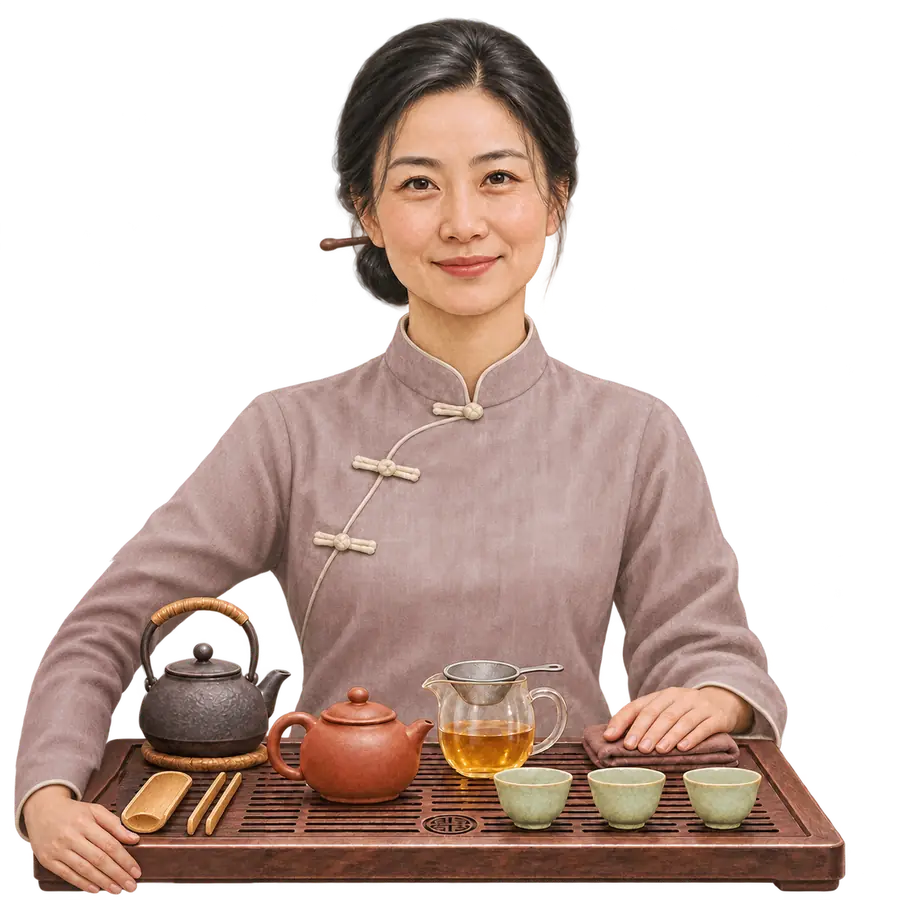
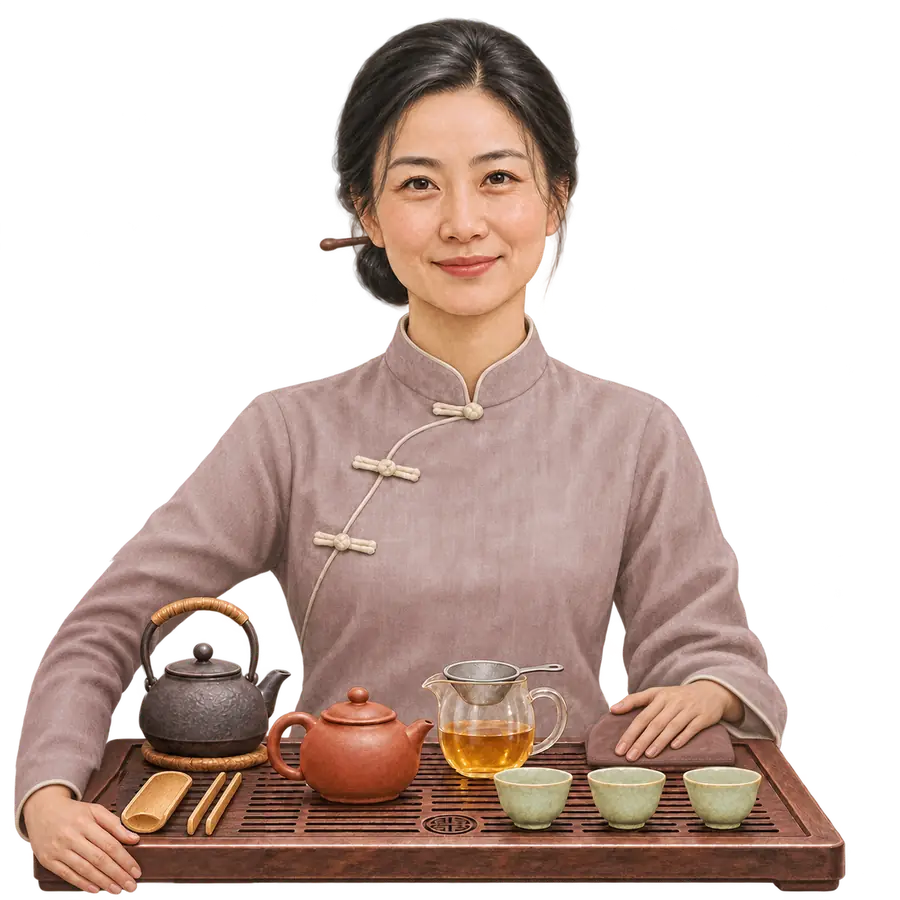
Draw Master Su in every pose and give her a softer voice
All 36 remaining frames from the animator, locked to her idle so still
pixels match, plus her four test frames with the corrected left hand.
She now uses the same gestures, tea round and cup overlays as Master Lin.
Her speech is gentler and more feminine in Chinese and English: greeting,
persona voice notes, refusal and fallback lines, and a few extra nod and
think cues for how she talks.

Claude-Session: https://claude.ai/code/session_01FvpSvFpFZJn68NFhobHFM3

Changed region(s): [[0.6533, 0.7467, 0.8711, 0.8711]]

diff --git a/index.html b/index.html
@@ -3729,7 +3729,7 @@ initReviews();
   const quiet=()=>still()||document.hidden||$("teahouse").hidden;
   /* Two tea masters keep this table, Master Lin (林师傅) and Master Su (苏师傅), and either may be the one on duty:
      chosen at random for each visit and kept for the rest of it (?host=lin or ?host=su previews one). Master Su is
-     only partly drawn so far: idle, the two low pours and the offered cup. For any other gesture she stays at rest. */
+     drawn in every pose he is, on the same tray, so her frames simply take the place of his. */
   const HOST=(()=>{let h=""; try{h=(new URLSearchParams(location.search).get("host")||"").toLowerCase()}catch(e){}
     if(h==="lin"||h==="su") return h;
     try{h=sessionStorage.getItem("cha.host")||""}catch(e){}
@@ -3737,9 +3737,7 @@ initReviews();
     try{sessionStorage.setItem("cha.host",h)}catch(e){}
     return h;})(), SU=HOST==="su";
   const WHO=SU?{en:"Master Su",zh:"苏师傅",zht:"蘇師傅",img:"img/master-su/idle.webp"}:{en:"Master Lin",zh:"林师傅",zht:"林師傅",img:"img/master-lin/idle.webp"};
-  if(SU){const DRAWN=new Set(["","pour-low","pour-gaiwan","offer"]);
-    man.querySelectorAll("img[data-pose]").forEach(i=>{const k=i.dataset.pose;
-      if(!DRAWN.has(k)){i.remove(); return}
+  if(SU){man.querySelectorAll("img[data-pose]").forEach(i=>{const k=i.dataset.pose;
       i.src="img/master-su/"+(k||"idle")+".webp";
       if(!k) i.alt="Master Su at a complete gongfu tea tray: Yixing teapot, fairness pitcher and strainer, three celadon cups, kettle, tea tools and cloth";});
     $("thGaiwan").src="img/master-su/gaiwan.webp";
@@ -3761,7 +3759,6 @@ initReviews();
   const ALIAS={"reach-pot":"reach-gaiwan","smell-lid":"smell-gaiwan-lid","pour-low":"pour-gaiwan","fill-pot":"brew-gaiwan"},
     PATCHED=new Set(["","blink","listen","talk-a","talk-b","talk-c","laugh","welcome","thinking","nod","point","smell","reach-cup","sip"]),
     patch=$("thGaiwan"), cupEls=[0,1,2].map(i=>$("thCup"+i));
-  if(SU) PATCHED.add("offer");
   /* The three cups are drawn empty. Once he has served, a small patch of tea is laid in each cup that still has
      tea in it (tea.cups: bit 0 the left cup, bit 1 the middle, bit 2 the right one, the guest's). CUPS says which
      cups a frame leaves on the tray untouched: a cup in his hand, or one the frame draws being filled, gets none. */
@@ -3899,8 +3896,8 @@ initReviews();
     ["offer",/\b(taste (this|it|that|some)|have a taste|try (this|it|some|a cup|a sip)|(take|have) a sip|here you (go|are)|have some|enjoy (it|this|your)|this cup|your cup|drink (up|it|this)|while it('s| is) (still )?(hot|warm)|careful,? it('s| is) hot)\b|尝尝|尝一|你尝|请尝|喝一口|喝口|请(喝|用|品|茶)|你试试|试试看|品一品|这杯|趁热|慢用|慢慢喝|小心烫/gi],
     ["smell",/\b(smell(s|ed|ing)?|aromas?|fragran(t|ce)|scents?|sniff|(lift|under) the lid)\b|闻|香气|香味|茶香|盖香/gi],
     ["laugh",/\b(ha(ha)+|he(he)+|lol|laugh(s|ed|ing)?|funny|joking|teasing)\b|\bha!|哈哈|呵呵|嘿嘿|好笑|开玩笑|[😄😂😆]/giu],
-    ["nod",/(?:^|[.!?]\s+)(yes|yeah|exactly|indeed|of course|certainly|absolutely|precisely|correct|that's (right|true)|quite right|you('re| are) right|I agree|well said|very good|ah,? yes)\b|(?:^|[。！？])\s*(对|是的|是啊|没错|当然|正是|说得对|说得好|可不是|好的|好啊)/gi],
-    ["think",/(?:^|[.!?]\s+)(hmm+|well,|let me think|good question|that's a (good|hard|difficult|tricky|interesting) (one|question)|how (shall|should|do|can) I (put|say|explain)|it depends|honestly|to be honest)|(?:^|[。！？])\s*(嗯|这个嘛|让我想想|我想想|好问题|怎么说呢|说实话|不好说|看情况)/gi],
+    ["nod",/(?:^|[.!?]\s+)(yes|yeah|exactly|indeed|of course|certainly|absolutely|precisely|correct|that's (right|true)|quite right|you('re| are) right|I agree|well said|very good|ah,? yes)\b|(?:^|[。！？])\s*(对|是的|是啊|是呀|对呀|没错|当然|正是|说得对|说得好|说得也是|可不是|好的|好啊|好呀)/gi],
+    ["think",/(?:^|[.!?]\s+)(hmm+|well,|let me think|good question|that's a (good|hard|difficult|tricky|interesting) (one|question)|how (shall|should|do|can) I (put|say|explain)|it depends|honestly|to be honest)|(?:^|[。！？])\s*(嗯|这个嘛|这个呀|让我想想|我想想|好问题|怎么说呢|说实话|不好说|看情况)/gi],
     ["point",/\b(the mountains?|these mountains|the peaks?|the cliffs?|the valley|the river|Nine.?Bend|out there|over there|outside|up the slope|the tea (garden|bushes|rows)|the mist|the fog|the rain|the snow|the weather)\b|山上|山里|山间|那边|外面|九曲|岩壁|峡谷|茶园|茶山|雾|下雨|下雪|天气/gi],
     ["welcome",/\b(welcome|come in|take a seat|sit,? sit|make yourself at home|nice to meet you|good to see you|my pleasure|goodbye|good ?night|see you|come back (any ?time|soon|again)|safe travels|take care)\b|欢迎|请坐|坐坐|随便坐|不客气|别客气|慢走|再见|晚安|下次再来|一路平安/gi]];
   /* he answers Hong Kong, Macau and Taiwan guests in Traditional characters, so each cue also matches its Traditional form */
@@ -4039,8 +4036,8 @@ initReviews();
         qingming:"今天清明，大家都上山扫墓去了。",zhongyuan:"今天是中元节，纪念先人的日子。",hanshan:"今天喊山了，你听到锣鼓声了吗？",
         doucha:"你来得正好，今天斗茶赛！",chabo:"这几天城里在办茶博会，忙得很。"})[f]||"";
       const zup=up?"这么晚还没睡啊！":"", zfrom=where?(where.province==="福建"?"看样子你也在福建？那咱们是老乡啊！":`你是在${where.province}吧？`):country.zh&&!["CN","HK","MO","TW"].includes(country.cc)?`大老远从${country.zh}来的吧？`:"";
-      return `欢迎光临！${zfrom}${zup}${zfl}${zline}请坐，请坐！${SU?"我姓苏，叫我苏师傅就行。":"我姓林，叫我林师傅就行。"}水刚烧开。${gentle?"这么晚了，我给你泡杯淡一点的，不耽误你睡觉。":""}想问什么茶都可以问我，中国哪里的茶都行，也可以跟我聊聊你自己。${zfrom&&!where?"很少有客人从这么远的地方来。":""}`;}
-    return `欢迎光临！Welcome, welcome. ${from}${up}${fl}${line} Sit, sit! ${SU?"My family name is Su, so just call me Master Su (苏师傅).":"My family name is Lin, so just call me Master Lin (林师傅)."} The kettle has just boiled.${gentle?" It’s late, so I’ll make yours a gentle one that won’t keep you up.":""} Ask me anything you like about tea, from any part of China, or tell me a bit about yourself.${far}`;};
+      return SU?`欢迎光临～${zfrom}${zup}${zfl}${zline}快请坐。我姓苏，叫我苏师傅就好。水刚烧开呢。${gentle?"这么晚了，我给你泡杯淡一点的，不耽误你休息哦。":""}想问什么茶都可以问我呀，中国哪里的茶都行，也可以跟我说说你自己。${zfrom&&!where?"难得有客人从这么远的地方来呢。":""}`:`欢迎光临！${zfrom}${zup}${zfl}${zline}请坐，请坐！我姓林，叫我林师傅就行。水刚烧开。${gentle?"这么晚了，我给你泡杯淡一点的，不耽误你睡觉。":""}想问什么茶都可以问我，中国哪里的茶都行，也可以跟我聊聊你自己。${zfrom&&!where?"很少有客人从这么远的地方来。":""}`;}
+    return SU?`欢迎光临！Welcome. ${from}${up}${fl}${line} Please, come and sit down. My family name is Su, so do call me Master Su (苏师傅). The kettle has just boiled.${gentle?" It’s late, so I’ll make you a gentle cup that won’t keep you awake.":""} Ask me anything you like about tea, from any part of China, or tell me a little about yourself.${far}`:`欢迎光临！Welcome, welcome. ${from}${up}${fl}${line} Sit, sit! My family name is Lin, so just call me Master Lin (林师傅). The kettle has just boiled.${gentle?" It’s late, so I’ll make yours a gentle one that won’t keep you up.":""} Ask me anything you like about tea, from any part of China, or tell me a bit about yourself.${far}`;};
   const CHIPS=ZH?["我第一次喝中国茶，该从哪里开始？","现在这个时候喝什么茶好？","武夷岩茶有什么特别？","中国其他地方有什么茶值得一试？","在家怎么泡工夫茶？","山上的日子是什么样的？"]:["I'm new to Chinese tea. Where should I start?","What tea suits this time of day?","What makes Wuyi rock tea special?","Which tea from another part of China should I try?","How do I brew tea gongfu style at home?","What's life like up here on the mountain?"];
   let chipText=CHIPS;
   if(ZH==="hant"&&window.chaToHant) Promise.all(CHIPS.map(q=>window.chaToHant(q))).then(c=>{chipText=c; if(chips.children.length) showChips();}).catch(()=>{});
